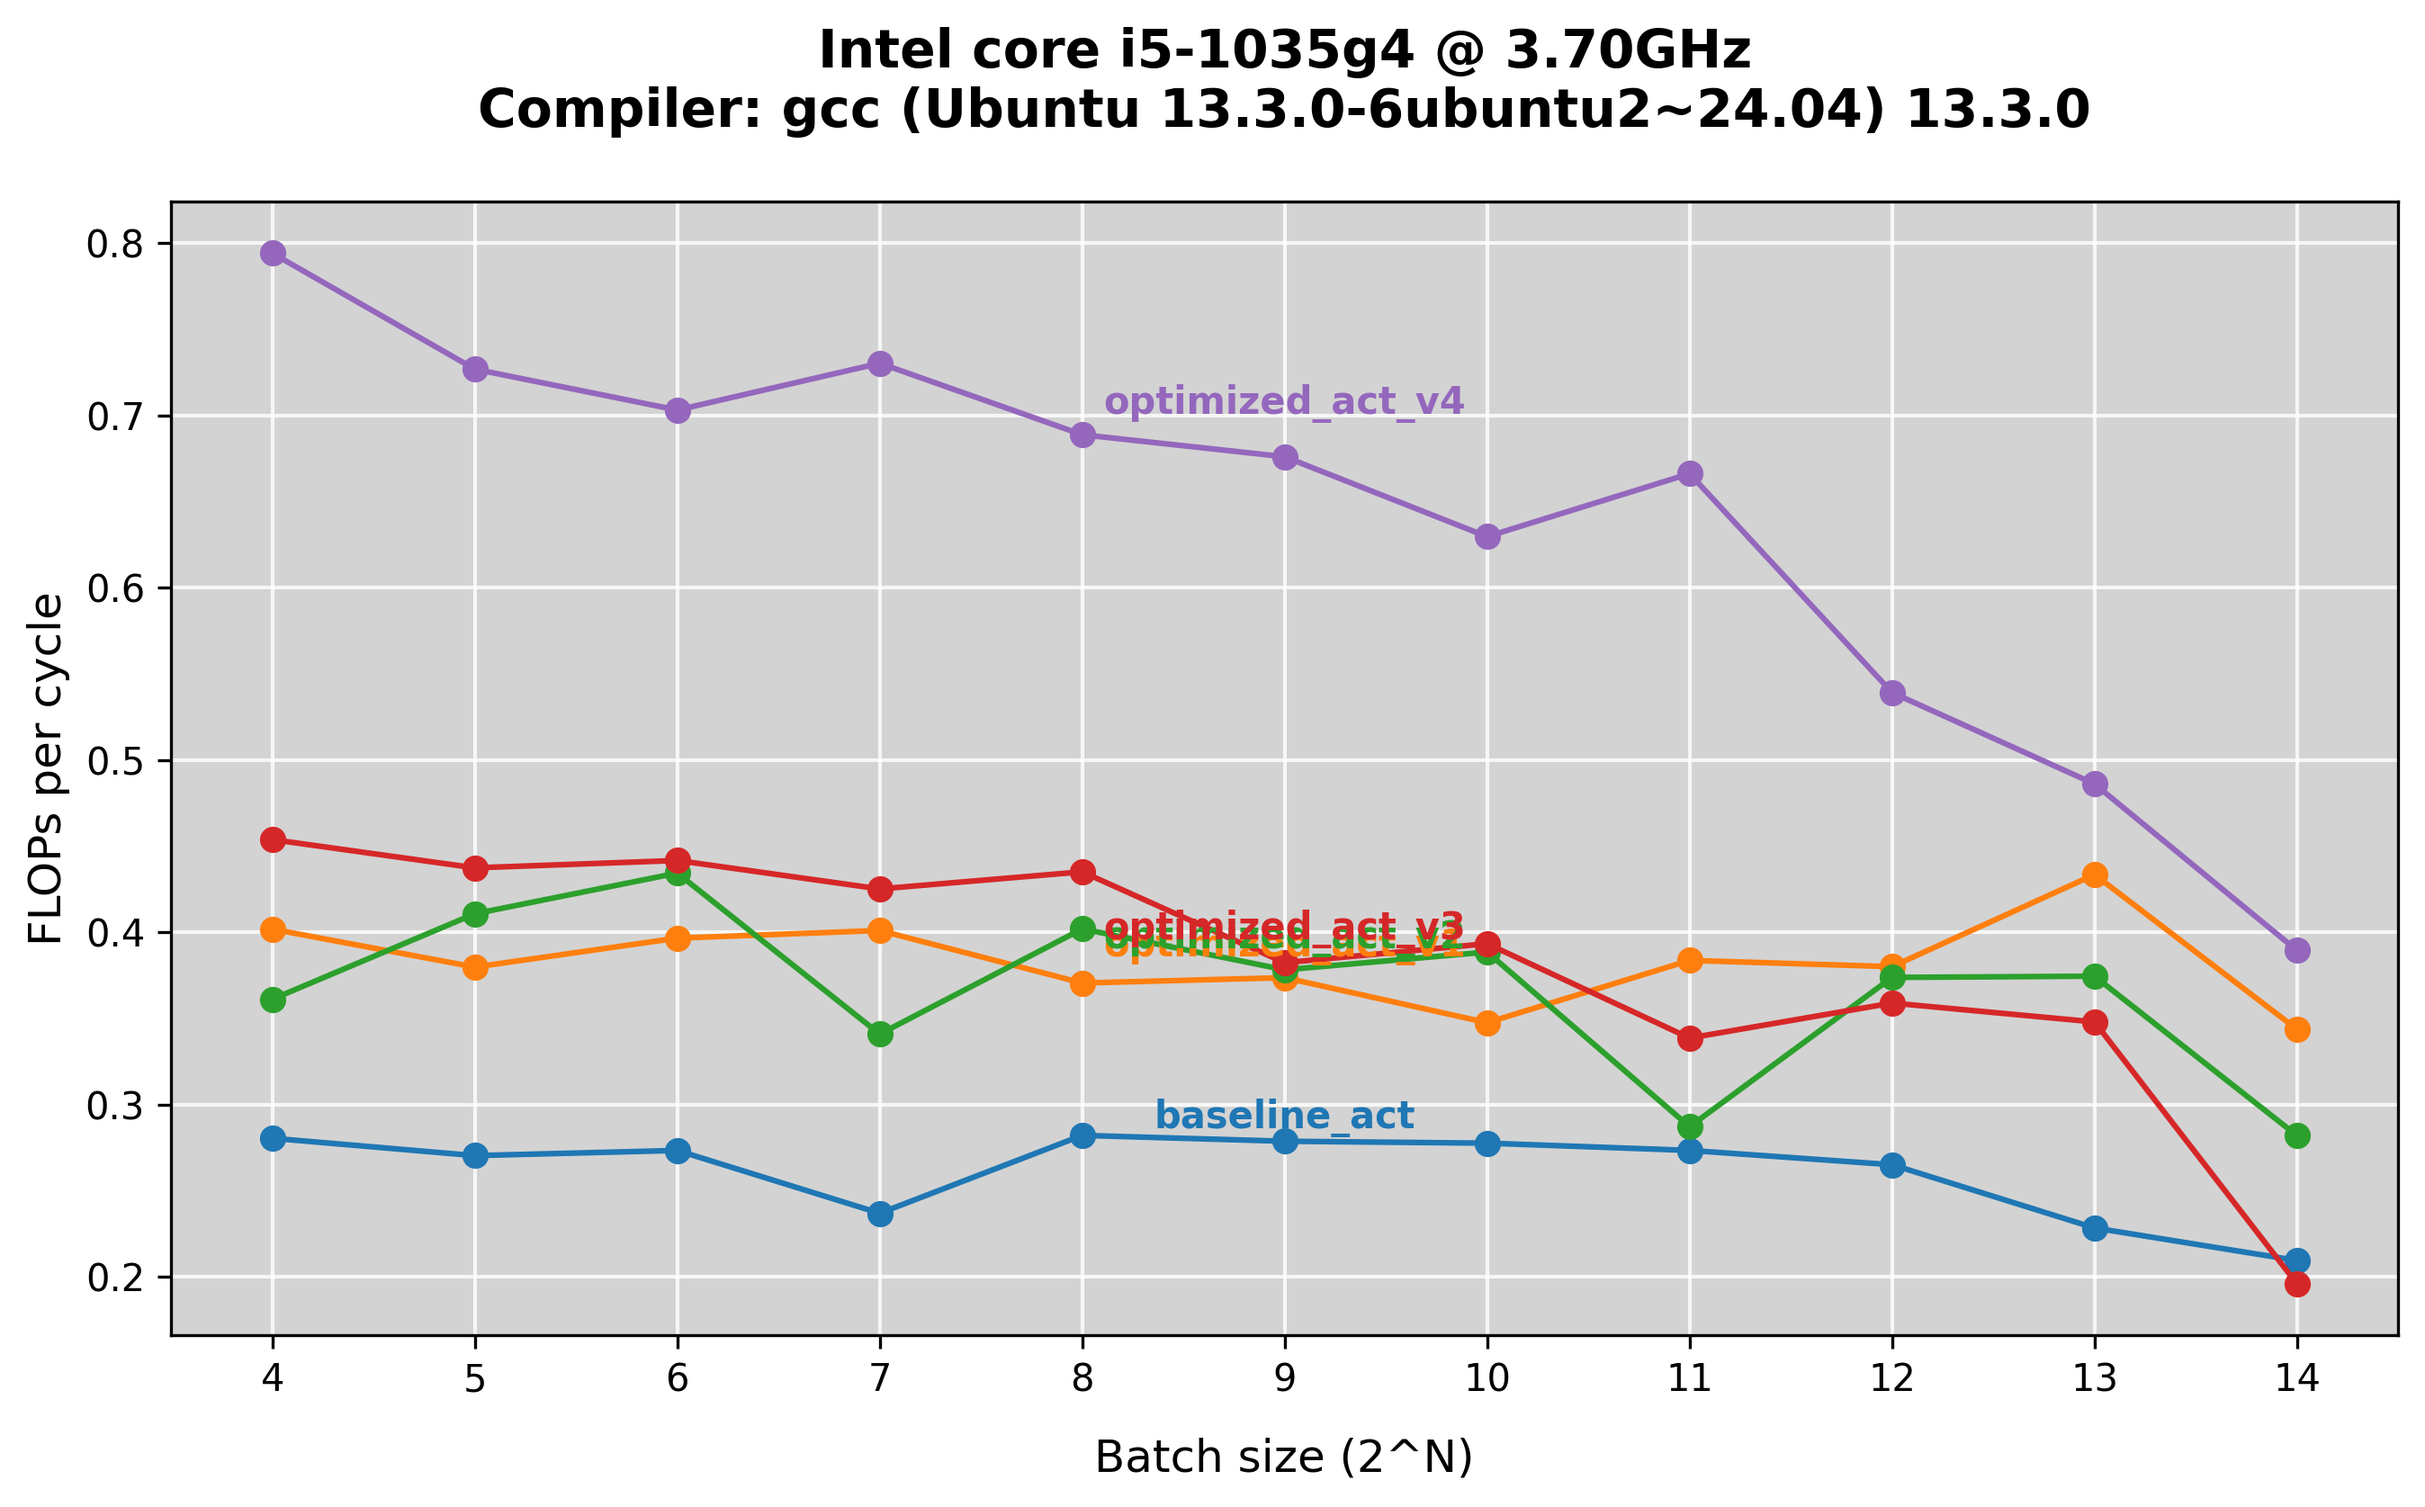
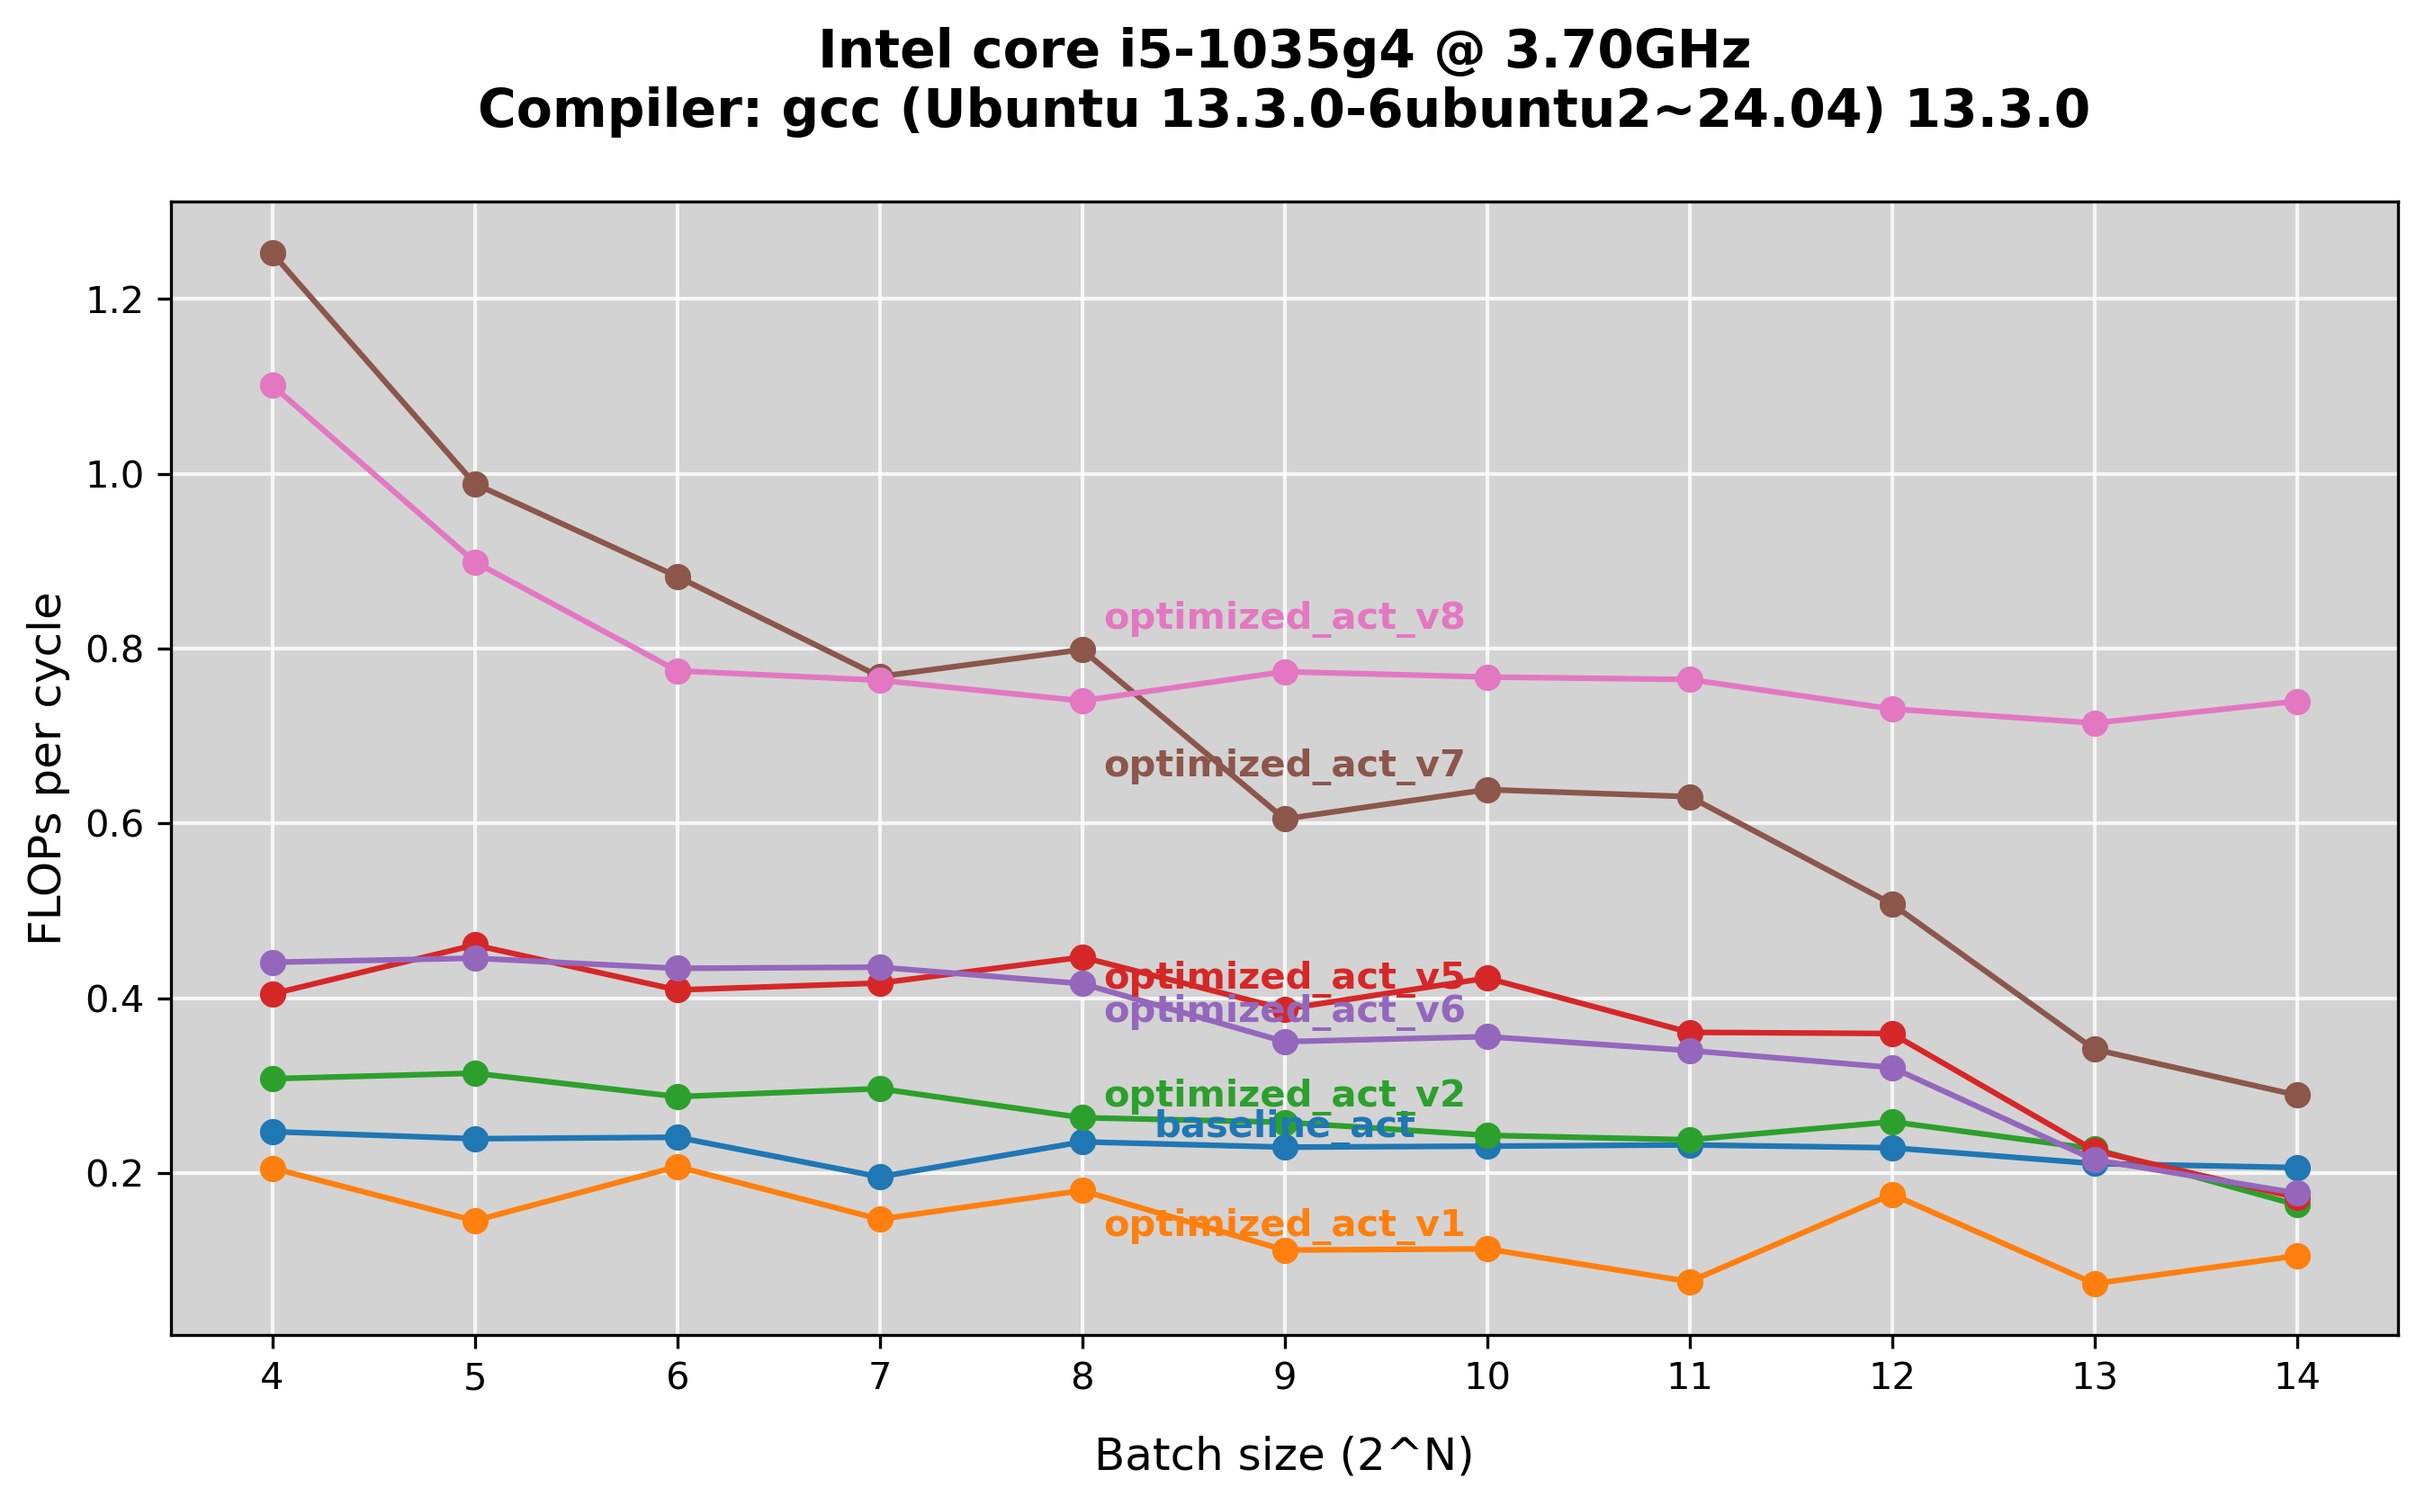
added v8

diff --git a/csrc/mv_act_optimization/mv_act_impls.c b/csrc/mv_act_optimization/mv_act_impls.c
@@ -670,7 +670,83 @@ void optimized_act_v7(
 }
 
 
+// ------------------------------------------------------------
+// optimized_act_v8
+// Loop restructuring to avoid large power 2 stride in inner loop
+// ------------------------------------------------------------
+void optimized_act_v8(
+    const float *x,
+    int           B,
+    int           C,
+    int           I_in,
+    int           I_full,
+    const int    *input_blades,
+    const float  *weight,
+    int           K,
+    const int    *kernel_blades,
+    const float  *bias,
+    float        *out
+) {
+    // 1) Build inverse map
+    int *inv = malloc((size_t)I_full * sizeof *inv);
+    if (!inv) return;
+    for (int i = 0; i < I_full; ++i) inv[i] = -1;
+    for (int i = 0; i < I_in; ++i) inv[input_blades[i]] = i;
 
+    // 2) Build per-channel valid lists
+    int   *valid_idx    = malloc((size_t)C * K * sizeof *valid_idx);
+    float *valid_weight = malloc((size_t)C * K * sizeof *valid_weight);
+    int   *valid_count  = malloc((size_t)C * sizeof *valid_count);
+    if (!valid_idx || !valid_weight || !valid_count) {
+        free(inv); free(valid_idx); free(valid_weight); free(valid_count);
+        return;
+    }
+    for (int c = 0; c < C; ++c) {
+        int vc = 0;
+        const float *w_c = weight + (size_t)c * K;
+        for (int k = 0; k < K; ++k) {
+            int blade = kernel_blades[k];
+            int idx   = (blade >= 0 && blade < I_full) ? inv[blade] : -1;
+            if (idx >= 0) {
+                valid_idx[c*K + vc]    = idx;
+                valid_weight[c*K + vc] = w_c[k];
+                vc++;
+            }
+        }
+        valid_count[c] = vc;
+    }
+    free(inv);
+
+    // 3) Stride per batch slice
+    size_t stride = (size_t)C * I_in;
+
+    // 4) Fused loop: dot, lookup table sigmoid, write-back
+    for (int b = 0; b < B; ++b) {
+        for (int c = 0; c < C; ++c) {
+            int     vc   = valid_count[c];
+            int    *idxs = valid_idx    + (size_t)c * K;
+            float  *wts  = valid_weight + (size_t)c * K;
+            float   bval = bias[c];
+            const float *x_bc = x   + (size_t)b * stride + (size_t)c * I_in;
+            float       *o_bc = out + (size_t)b * stride + (size_t)c * I_in;
+            float acc = bval;
+            FLOP(2);
+            for (int j = 0; j < vc; ++j) {
+                acc = fmaf(wts[j], x_bc[idxs[j]], acc);
+                FLOP(2);
+            }
+            float g = fast_sigmoid(acc);
+            FLOP(4);
+            for (int i = 0; i < I_in; ++i) {
+                o_bc[i] = x_bc[i] * g;
+                FLOP(1);
+            }
+        }
+    }
+
+    // 5) Cleanup
+    free(valid_idx); free(valid_weight); free(valid_count);
+}
 
 
 void register_activation_functions(void) {
@@ -680,5 +756,5 @@ void register_activation_functions(void) {
     add_activation_function(optimized_act_v5,  "optimized_act_v5");
     add_activation_function(optimized_act_v6,  "optimized_act_v6");
     add_activation_function(optimized_act_v7,  "optimized_act_v7");
-
+    add_activation_function(optimized_act_v8,  "optimized_act_v8");
 }
